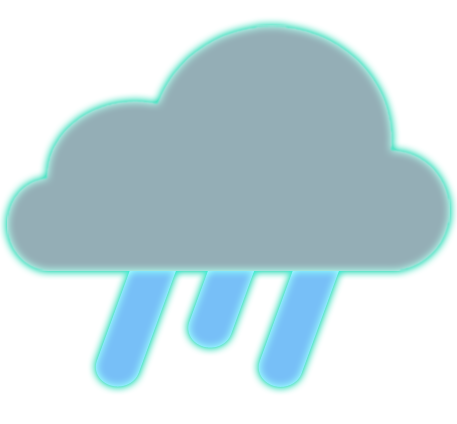
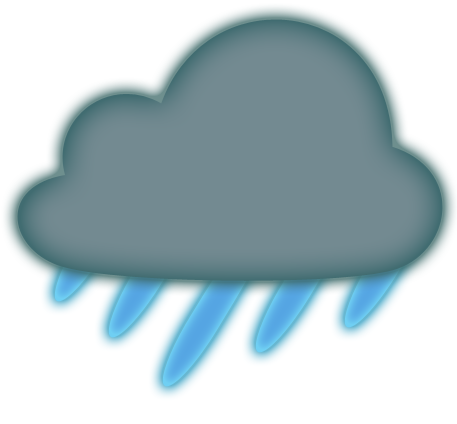
restyled the weather widget

diff --git a/qml/CS422MirrorProject/WeatherWidget/WeatherWidgetItem.qml b/qml/CS422MirrorProject/WeatherWidget/WeatherWidgetItem.qml
@@ -1,26 +1,24 @@
 import QtQuick 1.1
 import "../UtilityElements"
 
-Item{
-    width: 290; height: 124
+Row {
+    id: todaysForecast
+    width: image1.width + forecastText.width + spacing
+    height: image1.height + image1.anchors.topMargin
     clip: true
-
-    Rectangle {
-        id: rectangle2
-        x: 0
-        y: 0
-        width: 290
-        height: 124
-        color: "#00000000"
-    }
+    spacing: 15
 
     Image {
         id: image1
-        x: 19
-        y: 10
-        width: 110
-        height: 114
+        width: 130
+        height: 121
+        anchors {
+            top: parent.top
+            topMargin: 15
+        }
+
         z: -2
+        smooth: true
         source:  {
             switch(condition){
             case "Overcast" :
@@ -73,65 +71,50 @@ Item{
 
     }
 
-Rectangle {
-            id: rectangle1
-            x: 146
-            y: 0
-            width: 132
-            height: 125
-            color: "#00000000"
+    Column {
+            id: forecastText
+            width: (tempTxt.width > details.width) ? tempTxt.width : details.width
+            height: tempTxt.height + details.height + spacing
             clip: false
             z: -1
+            spacing: 15
+
+            anchors {
+                top: parent.top
+                topMargin: 15
+            }
 
             StdText{
                 id: tempTxt
-                x: -67
-                y: 0
-                width: 132
-                height: 68
                 state: "white"
                 text: (appVar.currentDegreeSystem == "Celsius") ? temp_c + "°C" : temp_f + "°F"
-                horizontalAlignment: Text.AlignHCenter
                 anchors.horizontalCenter: parent.horizontalCenter
-                wrapMode: Text.WordWrap
                 font.pointSize: 50
             }
 
-            StdText{
-                id: condTxt
-                x: -68
-                y: 63
-                width: 133
-                height: 16
-                text: condition
-                anchors.horizontalCenterOffset: 0
-                horizontalAlignment: Text.AlignHCenter
+            Column {
+                id: details
+                height: condTxt.height + humidityTxt.height + windTxt.height + spacing * 2
                 anchors.horizontalCenter: parent.horizontalCenter
-            }
+                spacing: 2
 
-            StdText{
-                id: humidityTxt
-                x: -67
-                y: 87
-                width: 132
-                height: 17
-                text: humidity
-                anchors.horizontalCenterOffset: 0
-                horizontalAlignment: Text.AlignHCenter
-                anchors.horizontalCenter: parent.horizontalCenter
-            }
+                StdText{
+                    id: condTxt
+                    text: condition
+                    anchors.horizontalCenter: parent.horizontalCenter
+                }
 
-            StdText{
-                id: windTxt
-                x: -68
-                y: 110
-                width: 133
-                height: 16
-                text: wind_condition
-                anchors.horizontalCenterOffset: 0
-                horizontalAlignment: Text.AlignHCenter
-                anchors.horizontalCenter: parent.horizontalCenter
+                StdText{
+                    id: humidityTxt
+                    text: humidity
+                    anchors.horizontalCenter: parent.horizontalCenter
+                }
 
+                StdText{
+                    id: windTxt
+                    text: wind_condition
+                    anchors.horizontalCenter: parent.horizontalCenter
+                }
             }
         }
 }

diff --git a/qml/CS422MirrorProject/WeatherWidget/WeatherWidget.qml b/qml/CS422MirrorProject/WeatherWidget/WeatherWidget.qml
@@ -18,11 +18,8 @@ Item {
 
     BorderImage {
         id: border_image1
-        x: -8
-        y: -7
         width: 339
         height: 158
-        anchors.horizontalCenterOffset: 0
         anchors.horizontalCenter: parent.horizontalCenter
         border { left: 25; top: 25; right: 25; bottom: 25}
         Behavior on height {
@@ -39,7 +36,7 @@ Item {
         }
         horizontalTileMode: BorderImage.Stretch
         verticalTileMode: BorderImage.Stretch
-        source: "images/borderImage2.png"
+        source: "images/borderImage3.png"
     }
 
     ListView {

diff --git a/qml/CS422MirrorProject/WeatherWidget/WeatherDayForecast.qml b/qml/CS422MirrorProject/WeatherWidget/WeatherDayForecast.qml
@@ -65,6 +65,7 @@ Item {
                width: 40
                height: 40
                anchors.horizontalCenter: parent.horizontalCenter
+               smooth: true
                source:  {
                    switch(condition){
                    case "Cloudy":
